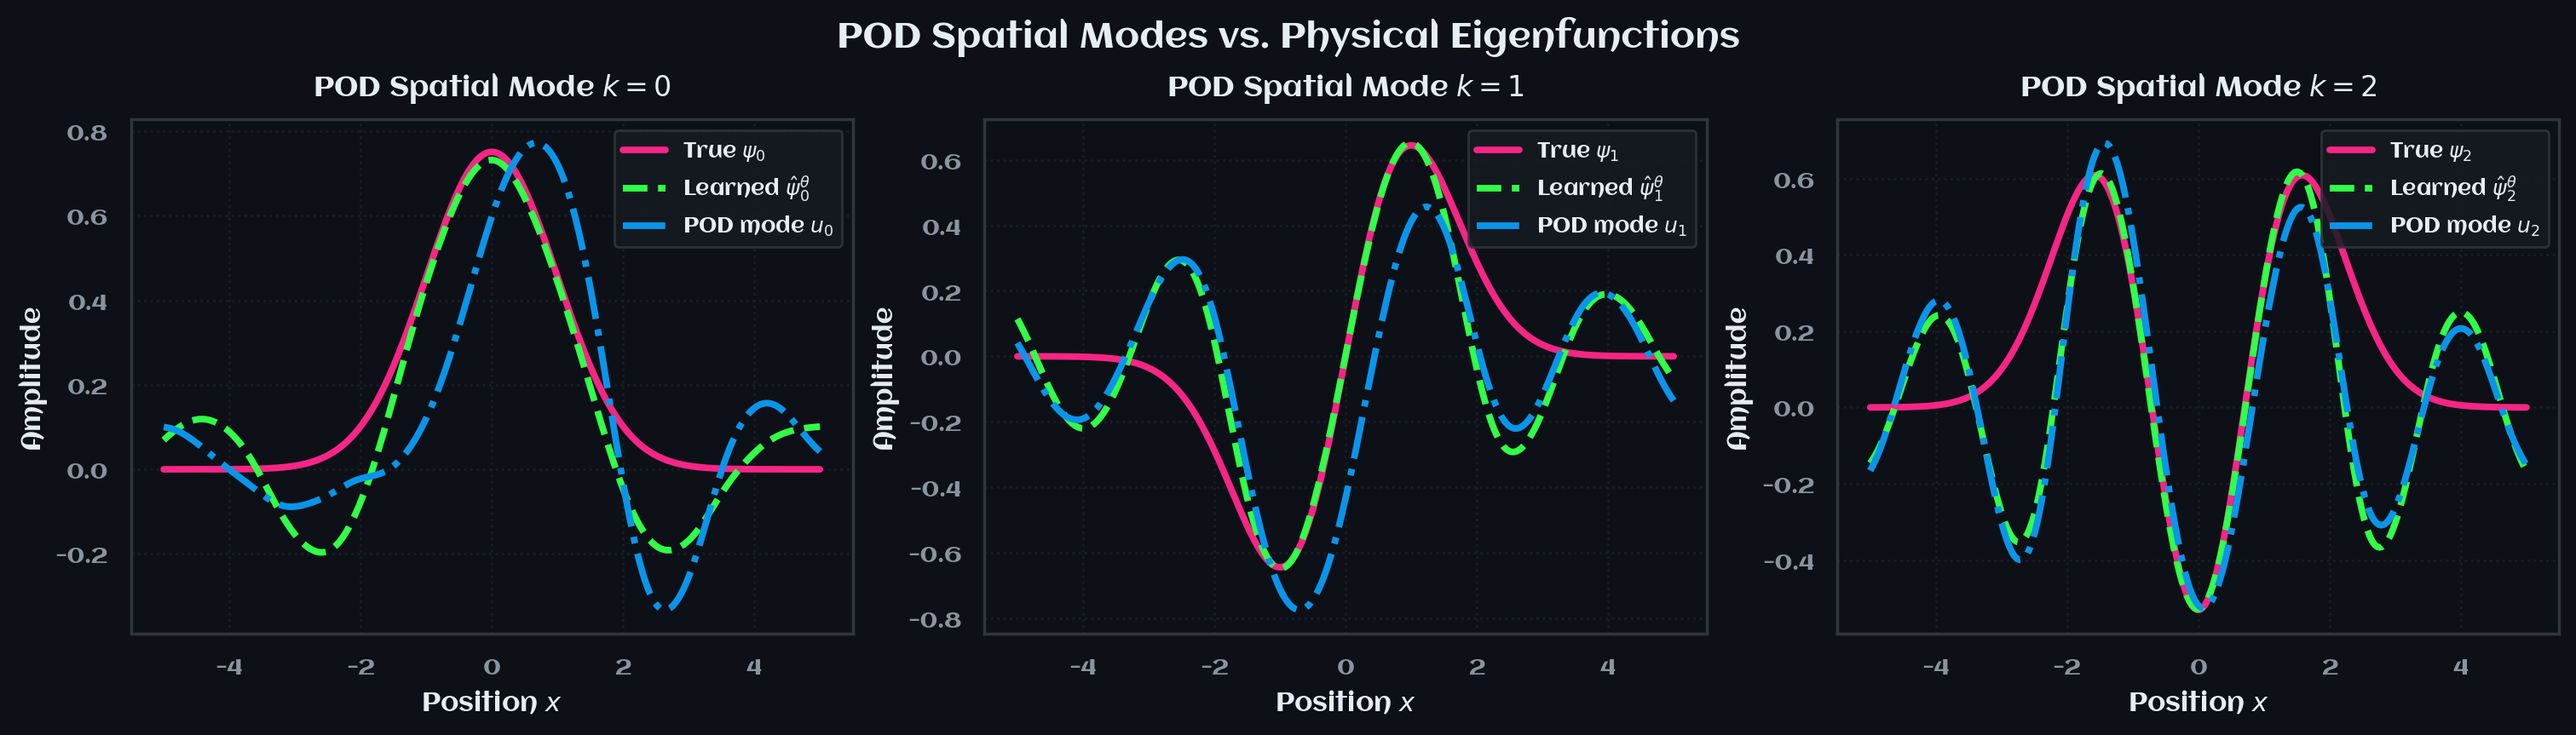
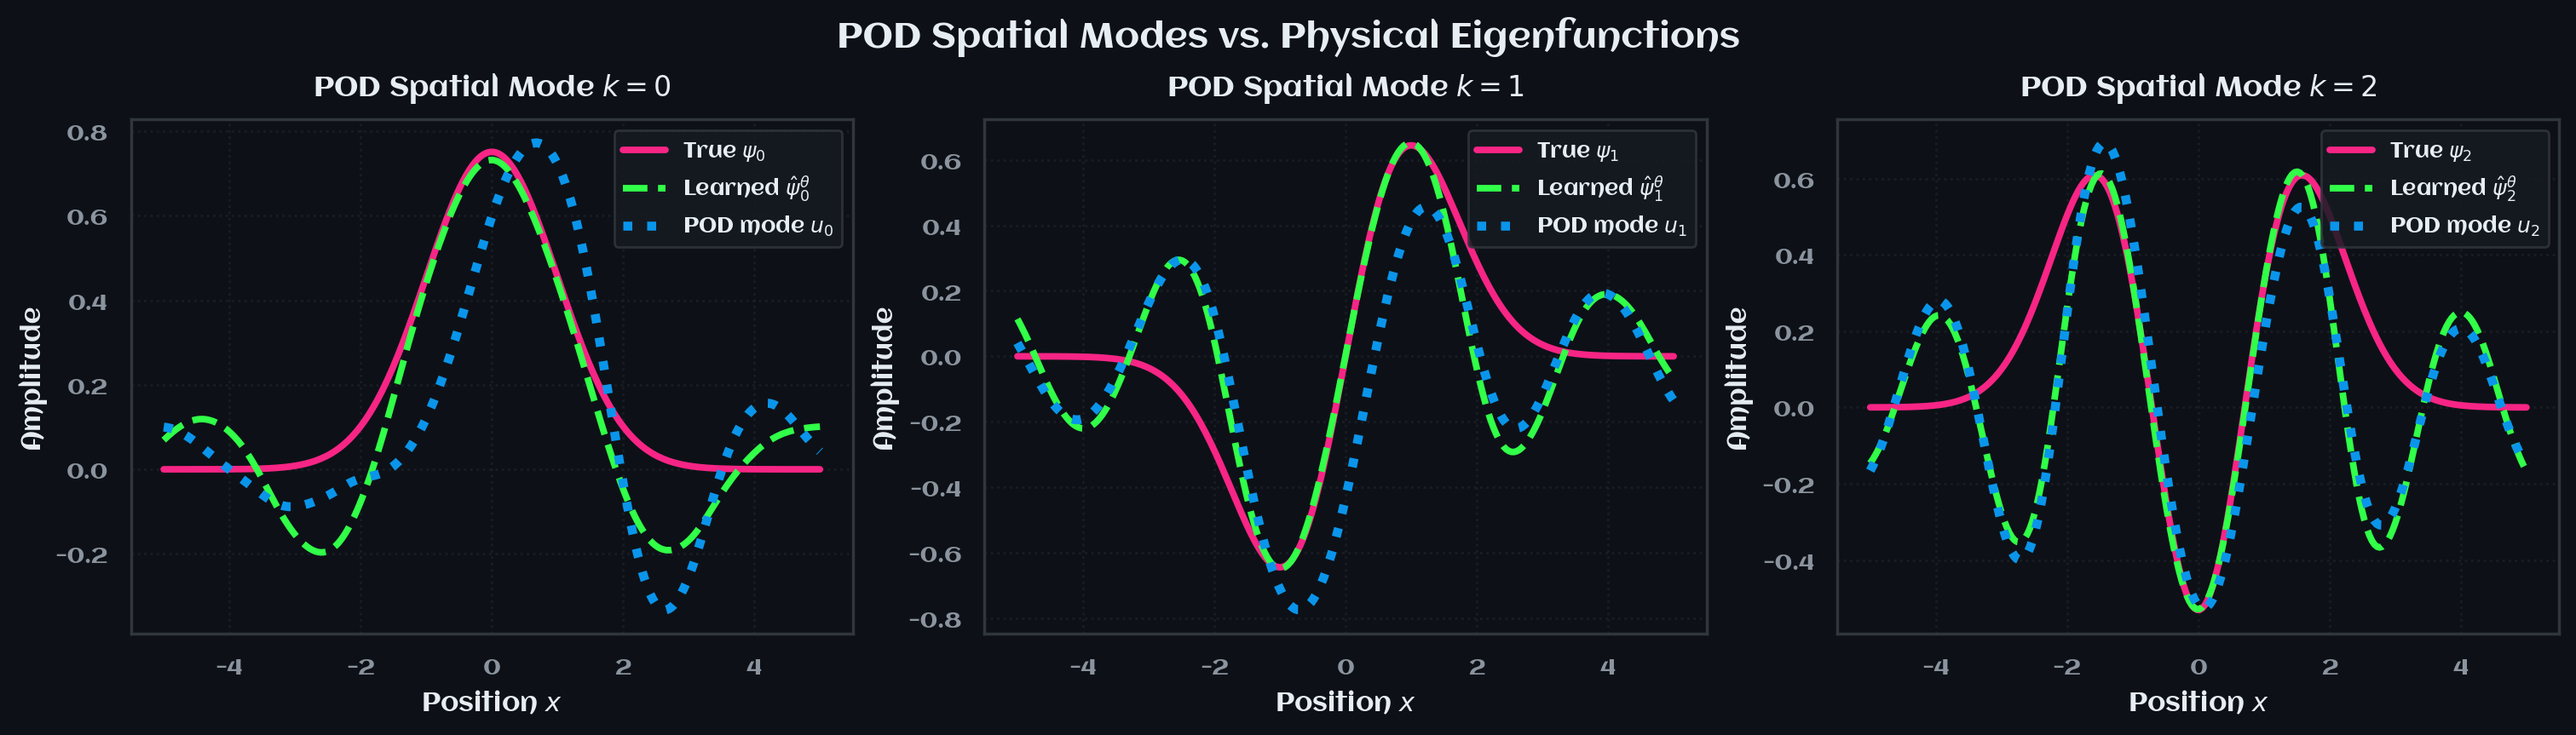
adjusted POD mode plot styling: increased linewidth and updated linestyle to dotted

diff --git a/src/visualizations.py b/src/visualizations.py
@@ -922,8 +922,8 @@ def plot_pod_first_three_spatial_modes(
             modes_np[:, k],
             label=f"POD mode $u_{k}$",
             color=COLOR_POD_MODE,
-            linewidth=2.8,
-            linestyle="-.",
+            linewidth=3.8,
+            linestyle="dotted",
         )
 
         ax.set_xlabel(r"Position $x$", fontsize=11)
